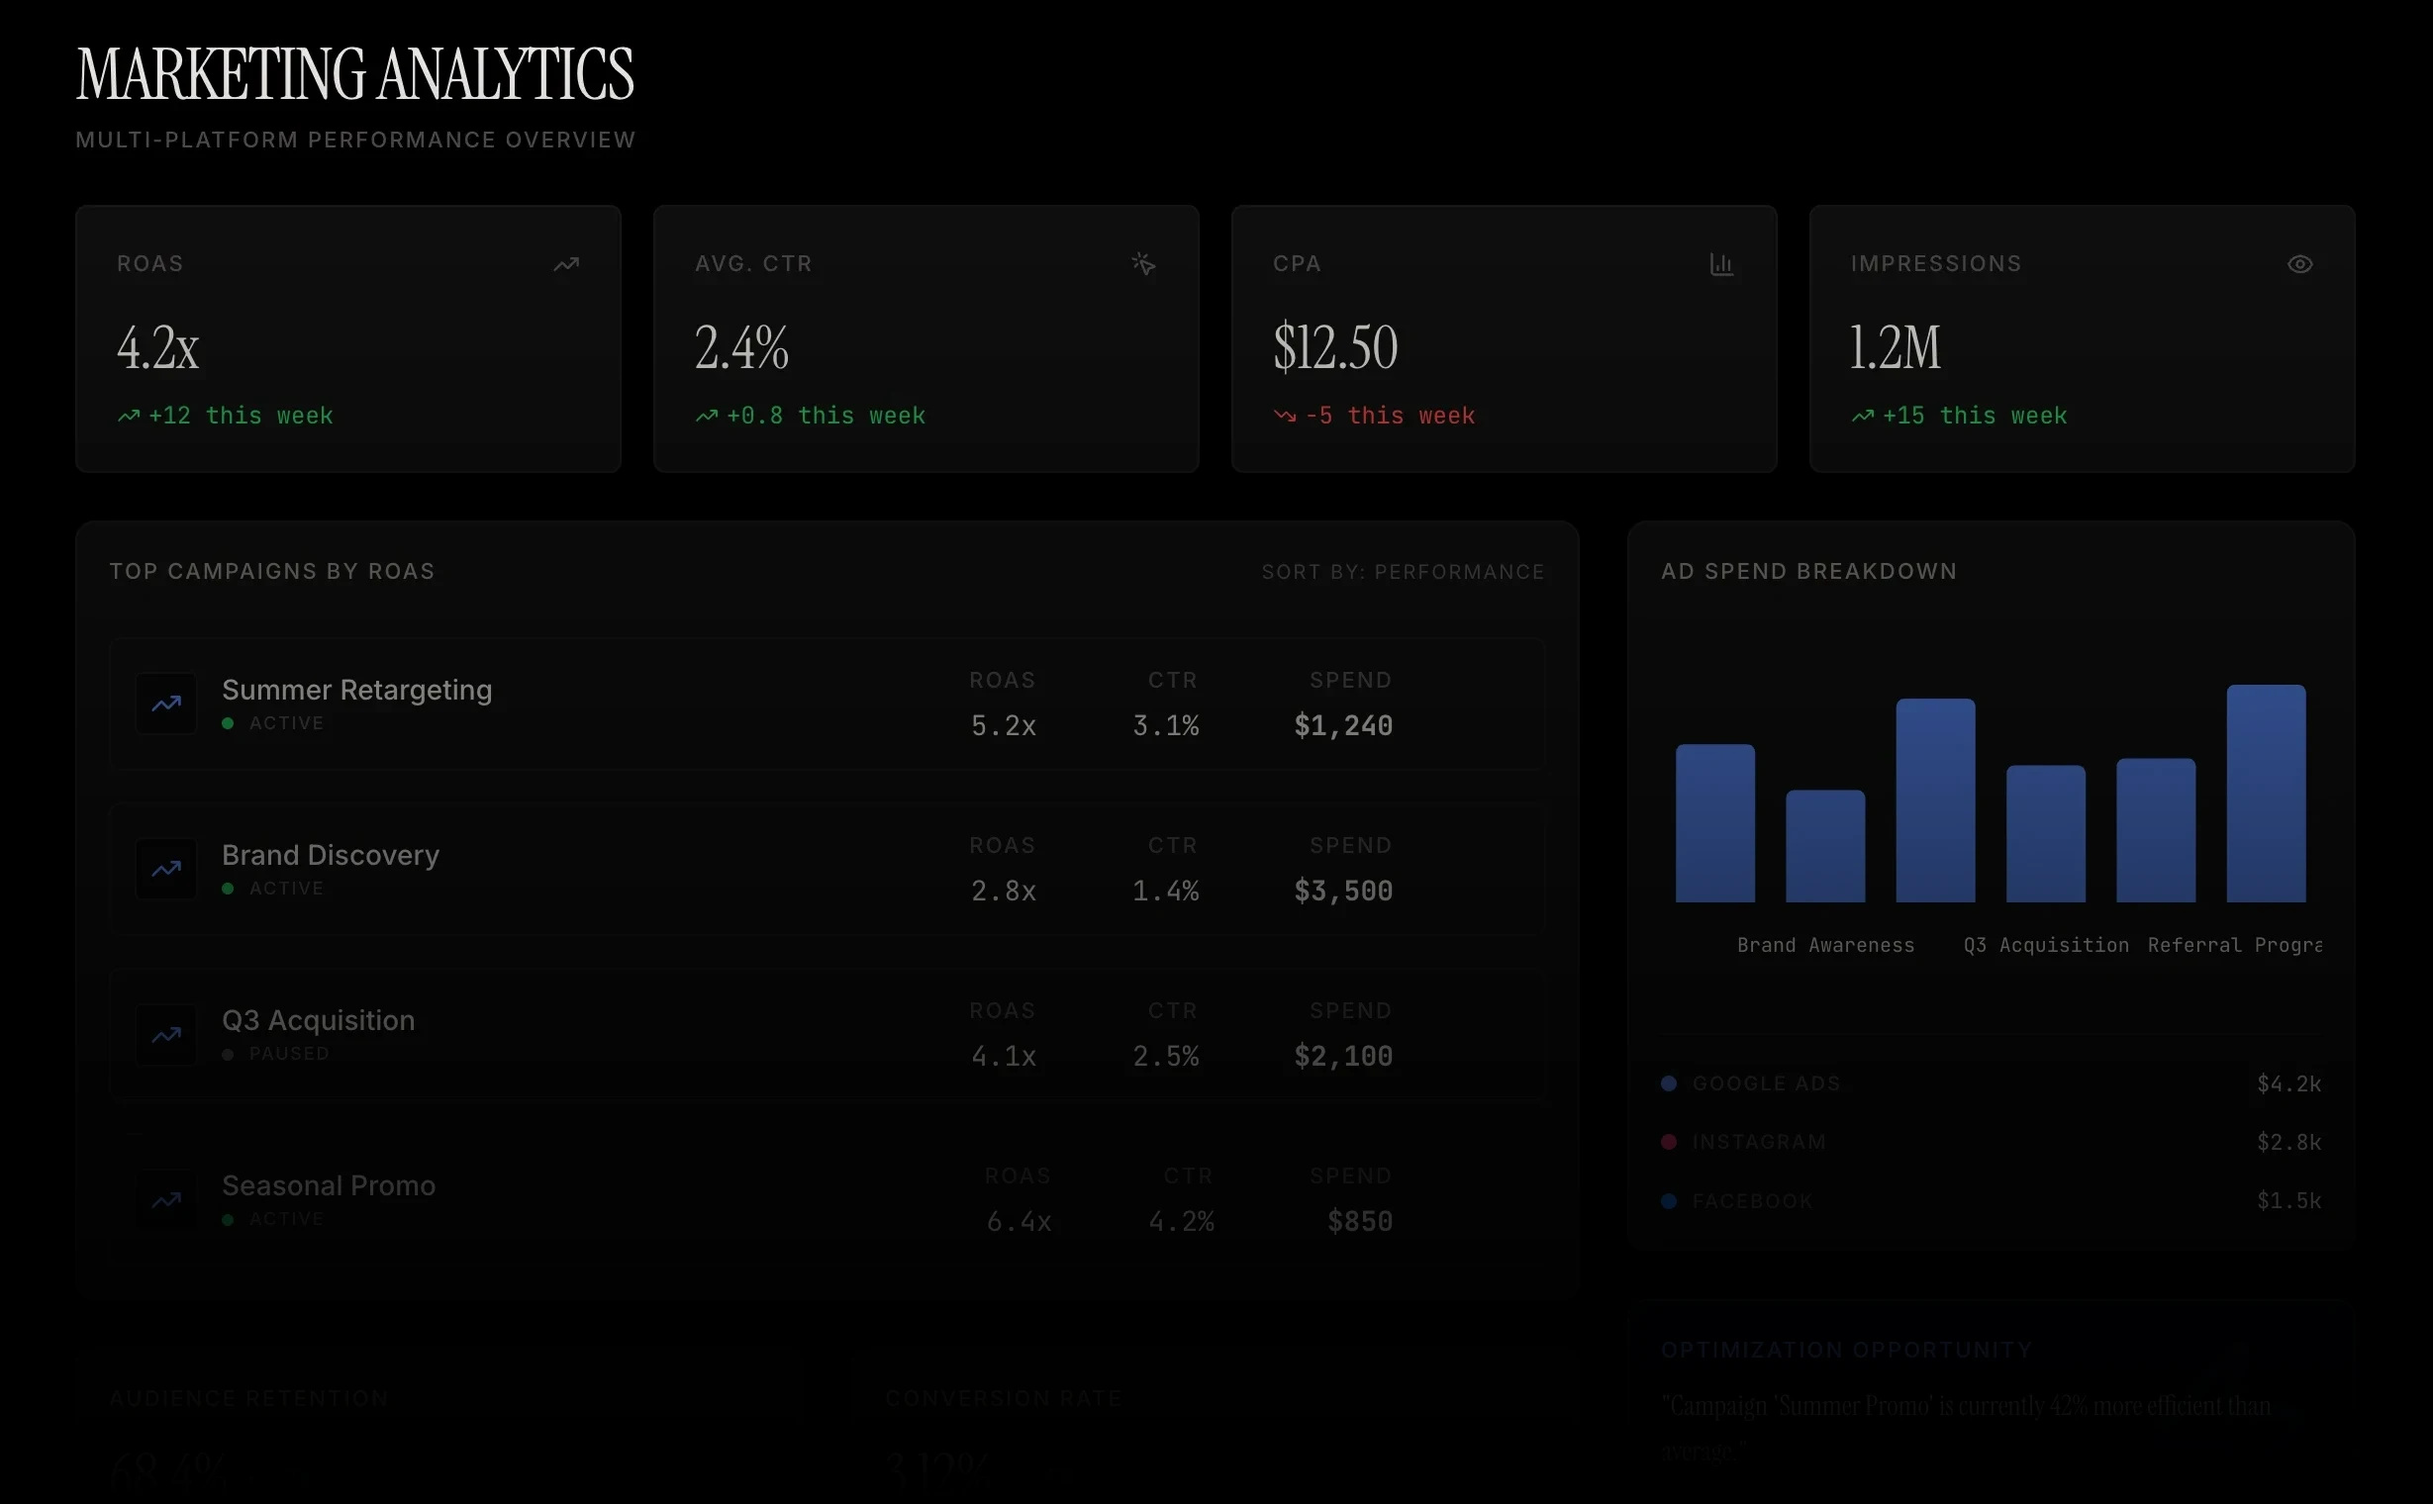
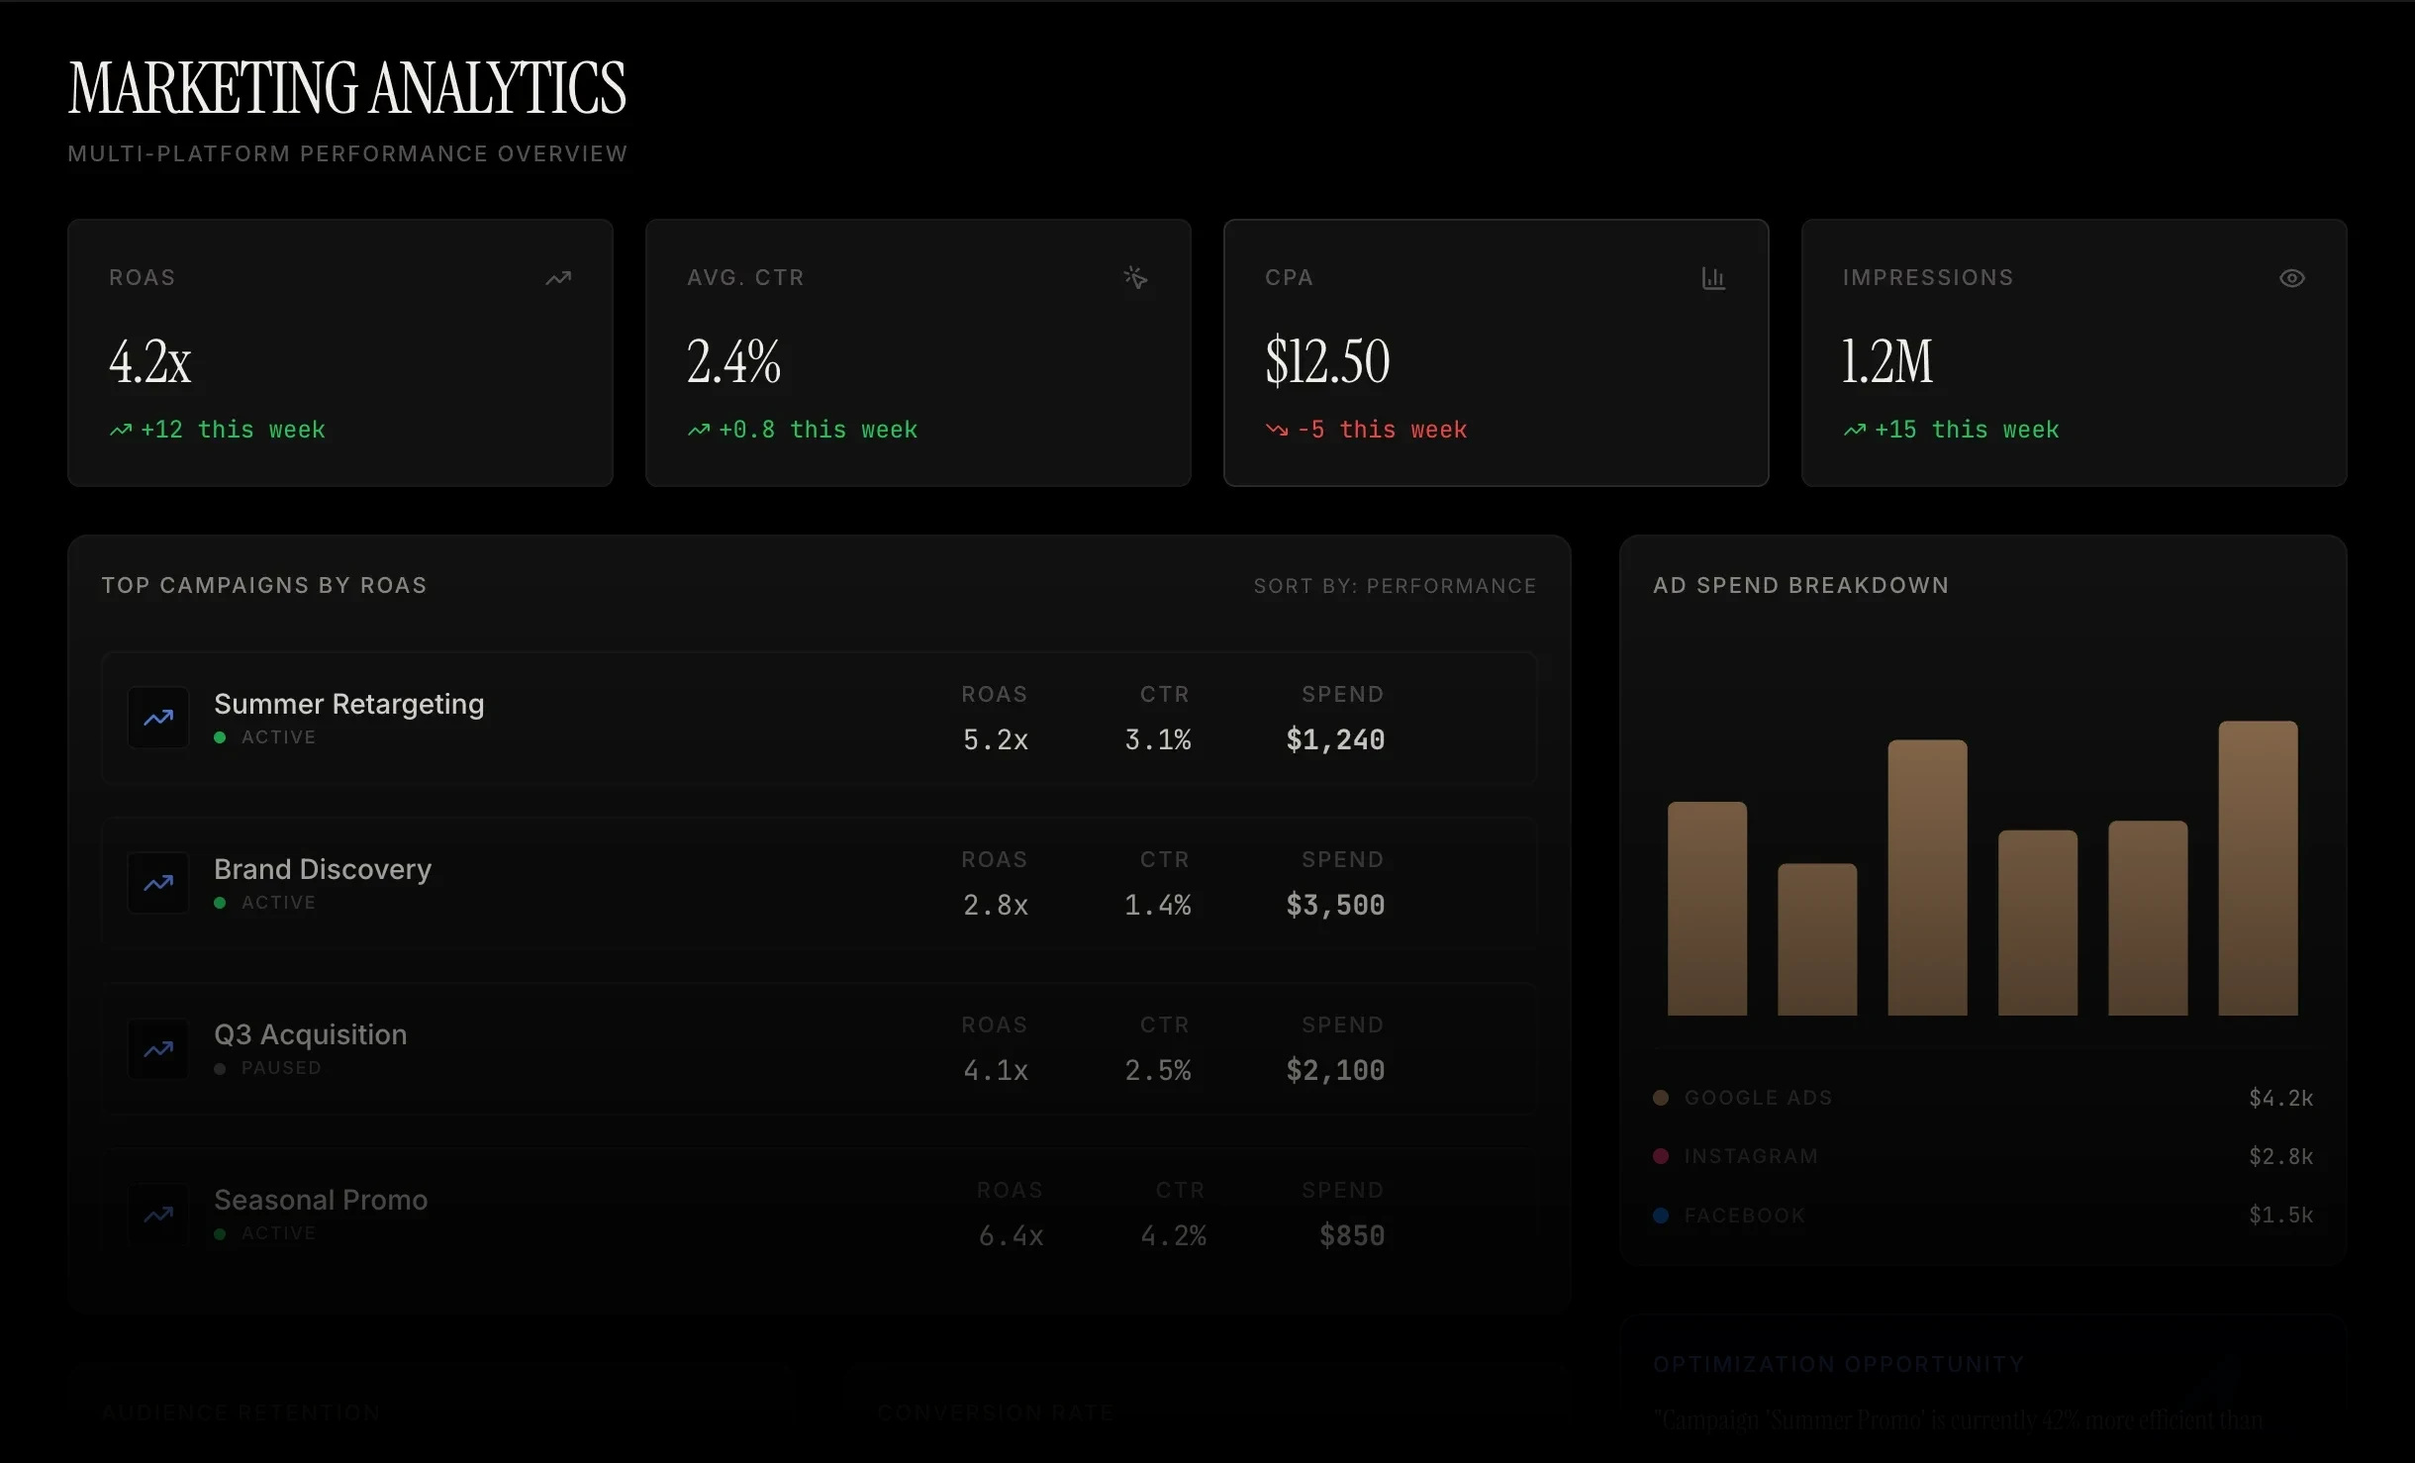
feat: design

diff --git a/src/components/ui/saa-s-template.tsx b/src/components/ui/saa-s-template.tsx
@@ -14,7 +14,7 @@ interface ButtonProps extends React.ButtonHTMLAttributes<HTMLButtonElement> {
 const Button = React.forwardRef<HTMLButtonElement, ButtonProps>(
   ({ variant = 'default', size = 'default', className = '', children, ...props }, ref) => {
     const baseStyles =
-      'inline-flex items-center justify-center gap-2 whitespace-nowrap rounded font-medium uppercase tracking-[0.18em] transition-colors focus-visible:outline-none focus-visible:ring-2 focus-visible:ring-offset-2 focus-visible:ring-offset-black disabled:pointer-events-none disabled:opacity-50';
+      'inline-flex items-center justify-center gap-2 whitespace-nowrap rounded font-medium transition-colors focus-visible:outline-none focus-visible:ring-2 focus-visible:ring-offset-2 focus-visible:ring-offset-black disabled:pointer-events-none disabled:opacity-50';
 
     const variants = {
       default: 'bg-[#F0EDE8] text-[#0A0A0A] hover:bg-white',
@@ -49,6 +49,11 @@ const NAV_ITEMS = [
   { href: '#funnel', label: 'Funnel' },
 ];
 
+const teaserNavTextStyle = {
+  fontFamily: "'Clash Grotesk', sans-serif",
+  textTransform: 'none' as const,
+};
+
 const SaaSTemplateNavigation = React.memo(() => {
   const [mobileMenuOpen, setMobileMenuOpen] = React.useState(false);
 
@@ -67,8 +72,8 @@ const SaaSTemplateNavigation = React.memo(() => {
             </div>
             <div className="leading-none">
               <div
-                className="text-[1.55rem] tracking-tight text-[#F0EDE8]"
-                style={{ fontFamily: "'Instrument Serif', serif" }}
+                className="text-[1.55rem] tracking-tight text-[#8A8580]"
+                style={{ fontFamily: "'Clash Grotesk', sans-serif" }}
               >
                 Nexbit
               </div>
@@ -80,8 +85,8 @@ const SaaSTemplateNavigation = React.memo(() => {
               <a
                 key={item.href}
                 href={item.href}
-                className="text-[11px] font-medium uppercase tracking-[0.16em] text-[#8A8580] transition-colors hover:text-[#F0EDE8]"
-                style={{ fontFamily: "'Inter', sans-serif" }}
+                className="text-[15px] font-medium tracking-[0.04em] text-[#8A8580] transition-colors hover:text-[#F0EDE8]"
+                style={teaserNavTextStyle}
               >
                 {item.label}
               </a>
@@ -91,8 +96,8 @@ const SaaSTemplateNavigation = React.memo(() => {
           <div className="hidden md:flex items-center gap-4">
             <a
               href="#integrations"
-              className="inline-flex items-center justify-center rounded px-4 py-2 text-[11px] font-medium uppercase tracking-[0.16em] text-[#8A8580] transition-colors hover:text-[#F0EDE8]"
-              style={{ fontFamily: "'Inter', sans-serif" }}
+              className="inline-flex items-center justify-center rounded px-4 py-2 text-[15px] font-medium tracking-[0.04em] text-[#8A8580] transition-colors hover:text-[#F0EDE8]"
+              style={teaserNavTextStyle}
             >
               Explore
             </a>
@@ -101,7 +106,13 @@ const SaaSTemplateNavigation = React.memo(() => {
               target="_blank"
               rel="noopener noreferrer"
             >
-              <Button type="button" variant="default" size="sm">
+              <Button
+                type="button"
+                variant="default"
+                size="sm"
+                className="text-[15px] tracking-[0.04em]"
+                style={teaserNavTextStyle}
+              >
                 Book a demo
               </Button>
             </a>
@@ -125,8 +136,8 @@ const SaaSTemplateNavigation = React.memo(() => {
               <a
                 key={item.href}
                 href={item.href}
-                className="py-2 text-[11px] font-medium uppercase tracking-[0.16em] text-[#8A8580] transition-colors hover:text-[#F0EDE8]"
-                style={{ fontFamily: "'Inter', sans-serif" }}
+                className="py-2 text-[15px] font-medium tracking-[0.04em] text-[#8A8580] transition-colors hover:text-[#F0EDE8]"
+                style={teaserNavTextStyle}
                 onClick={() => setMobileMenuOpen(false)}
               >
                 {item.label}
@@ -135,8 +146,8 @@ const SaaSTemplateNavigation = React.memo(() => {
             <div className="flex flex-col gap-2 pt-4 border-t border-[#1A1A1A]">
               <a
                 href="#integrations"
-                className="inline-flex items-center justify-center rounded px-4 py-2 text-[11px] font-medium uppercase tracking-[0.16em] text-[#8A8580] transition-colors hover:text-[#F0EDE8]"
-                style={{ fontFamily: "'Inter', sans-serif" }}
+                className="inline-flex items-center justify-center rounded px-4 py-2 text-[15px] font-medium tracking-[0.04em] text-[#8A8580] transition-colors hover:text-[#F0EDE8]"
+                style={teaserNavTextStyle}
                 onClick={() => setMobileMenuOpen(false)}
               >
                 Explore
@@ -147,7 +158,13 @@ const SaaSTemplateNavigation = React.memo(() => {
                 rel="noopener noreferrer"
                 onClick={() => setMobileMenuOpen(false)}
               >
-                <Button type="button" variant="default" size="sm" className="w-full">
+                <Button
+                  type="button"
+                  variant="default"
+                  size="sm"
+                  className="w-full text-[15px] tracking-[0.04em]"
+                  style={teaserNavTextStyle}
+                >
                   Book a demo
                 </Button>
               </a>
@@ -229,15 +246,15 @@ const SaaSTemplateHero = React.memo(() => {
           <div className="mx-auto flex w-full flex-col items-center text-center">
             <aside className="mb-6 inline-flex max-w-full flex-wrap items-center justify-center gap-2 rounded border border-[#222222] bg-[#111111] px-3 py-2">
               <span
-                className="text-[10px] text-center whitespace-nowrap font-medium uppercase tracking-[0.12em] text-[#555050]"
-                style={{ fontFamily: "'Inter', sans-serif" }}
+                className="text-[15px] text-center whitespace-nowrap font-medium tracking-[0.04em] text-[#555050]"
+                style={teaserNavTextStyle}
               >
-                AI CMO Stack is live.
+                AI CMO stack is live.
               </span>
               <a
                 href="#integrations"
-                className="flex items-center gap-1 whitespace-nowrap text-[10px] font-medium uppercase tracking-[0.12em] text-[#5B8CFF] transition-colors hover:text-[#88A8FF]"
-                style={{ fontFamily: "'Inter', sans-serif" }}
+                className="flex items-center gap-1 whitespace-nowrap text-[15px] font-medium tracking-[0.04em] text-[#9d7958] transition-colors hover:text-[#b6916f]"
+                style={teaserNavTextStyle}
                 aria-label="Jump to integrations"
               >
                 See integrations

diff --git a/src/pages/TeaserPage.tsx b/src/pages/TeaserPage.tsx
@@ -709,8 +709,17 @@ export function TeaserPage() {
         <SaaSTemplateHeroSection />
 
         {/* Integrations Section (second page, just below hero) */}
-        <section id="integrations" className="relative z-10 mt-16 sm:mt-20 lg:mt-24 mb-16 lg:mb-20">
-          <div className="w-full max-w-[1440px] mx-auto px-4 md:px-12 lg:px-16">
+        <section
+          id="integrations"
+          className="relative z-10"
+          style={{
+            backgroundColor: '#F5EEDC',
+            backgroundImage:
+              'radial-gradient(circle at 1px 1px, rgba(0,0,0,0.12) 1px, transparent 0)',
+            backgroundSize: '22px 22px',
+          }}
+        >
+          <div className="w-full max-w-[1440px] mx-auto px-4 md:px-12 lg:px-16 py-6 sm:py-8 lg:py-10">
             <div className="relative flex flex-col lg:flex-row gap-10 lg:gap-16 items-center">
               {/* Static integration illustration image */}
               <div className="relative w-full max-w-md">
@@ -724,10 +733,13 @@ export function TeaserPage() {
 
               <div className="flex-1 max-w-2xl w-full space-y-5 text-center lg:text-left lg:ml-4">
                 <div className="space-y-3">
-                  <p className="text-xs uppercase tracking-[0.4em] text-[#A386FF]">
+                  <p
+                    className="text-[15px] tracking-[0.08em] text-[#A386FF]"
+                    style={{ fontFamily: "'Clash Grotesk', sans-serif", textTransform: 'none' }}
+                  >
                     Integrations
                   </p>
-                  <h2 className="text-3xl sm:text-[2.3rem] lg:text-[3.1rem] font-clash-grotesk text-white leading-tight">
+                  <h2 className="text-3xl sm:text-[2.3rem] lg:text-[3.1rem] font-clash-grotesk text-[#14110F] leading-tight">
                     Integrate with 20+ apps in a snap.
                   </h2>
                 </div>
@@ -755,7 +767,7 @@ export function TeaserPage() {
                             key={`${logo.id}-${loopIndex}`}
                             className="flex shrink-0 items-center justify-center"
                           >
-                            <div className="h-16 w-16 sm:h-20 sm:w-20 rounded-2xl bg-black/40 border border-white/10 flex items-center justify-center shadow-[0_0_25px_rgba(0,0,0,0.45)]">
+                            <div className="h-16 w-16 sm:h-20 sm:w-20 rounded-2xl bg-white/70 border border-black/10 flex items-center justify-center shadow-[0_16px_30px_rgba(20,17,15,0.08)] backdrop-blur-sm">
                               <img
                                 src={logo.src}
                                 alt="Integration logo"
@@ -777,7 +789,7 @@ export function TeaserPage() {
         </section>
 
         {/* Why Nexbit Section - Reliable. Scalable. Secure. */}
-        <section id="why-nexbit" className="relative overflow-visible z-10 mt-32 sm:mt-40 lg:mt-48 mb-0 pb-16 sm:pb-24 lg:pb-28 min-h-screen">
+        <section id="why-nexbit" className="relative overflow-visible z-10 mb-0 pb-6 sm:pb-8 lg:pb-10">
           <div
             className="absolute inset-0"
             style={{
@@ -787,7 +799,7 @@ export function TeaserPage() {
               backgroundSize: '22px 22px',
             }}
           />
-          <div className="relative w-full max-w-[1440px] mx-auto px-4 md:px-12 lg:px-16">
+          <div className="relative w-full max-w-[1440px] mx-auto px-4 md:px-12 lg:px-16 pt-6 sm:pt-8 lg:pt-10">
             <div className="rounded-[32px] p-6 sm:p-10 lg:p-14">
               <div className="flex flex-col lg:flex-row gap-10 lg:gap-16 items-start">
                 {/* Left: headline + feature rows */}
